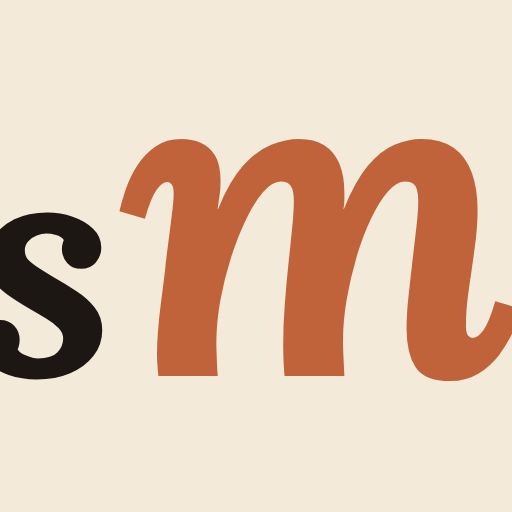
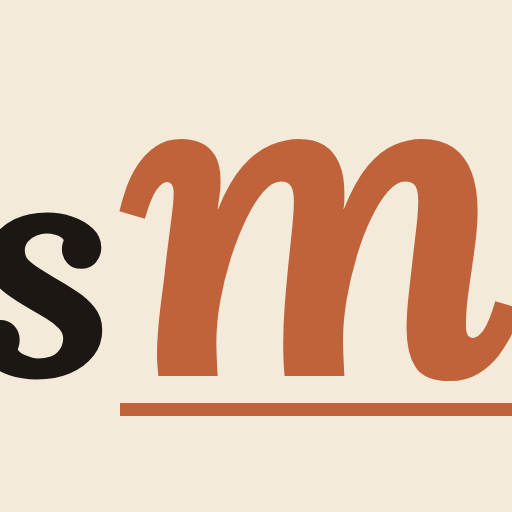
Fix homepage menu line glitch + match app menu to homepage

Changed region(s): [[0.2188, 0.7812, 1.0, 0.8125]]

diff --git a/src/App.jsx b/src/App.jsx
@@ -683,6 +683,7 @@ function AuthGate() {
   const [selectedTier, setSelectedTier] = useState(() => {
     try { return localStorage.getItem("sm_selected_tier") || null; } catch { return null; }
   });
+  const [gateMenuOpen, setGateMenuOpen] = useState(false);
   const emailInputRef = useRef(null);
 
   function chooseTier(tier) {
@@ -831,13 +832,128 @@ function AuthGate() {
   return (
     <div style={styles.page}>
       <GlobalStyles />
-      <div style={styles.gateWrap}>
-        <div style={styles.dashNavBar}>
-          <AppLogo />
-          <a href="https://sitemargin.co.za" style={styles.eyebrowLink}>← sitemargin.co.za</a>
+      <div style={styles.gateNavOuter}>
+        <div style={styles.gateNavWrap}>
+          <div style={styles.gateNav}>
+            <AppLogo />
+            <button
+              type="button"
+              style={styles.menuBtn}
+              aria-expanded={gateMenuOpen}
+              aria-controls="gateMenuPanel"
+              aria-label={gateMenuOpen ? "Close menu" : "Open menu"}
+              onClick={() => setGateMenuOpen((v) => !v)}
+            >
+              <span style={{ ...styles.menuBtnBar, ...(gateMenuOpen ? styles.menuBtnBar1Open : {}) }} />
+              <span style={{ ...styles.menuBtnBar, ...(gateMenuOpen ? styles.menuBtnBarMidOpen : {}) }} />
+              <span style={{ ...styles.menuBtnBar, ...(gateMenuOpen ? styles.menuBtnBar3Open : {}) }} />
+            </button>
+          </div>
         </div>
+      </div>
+      {gateMenuOpen && (
+        <div id="gateMenuPanel" style={{ ...styles.menuPanel, paddingTop: 140 }}>
+          <div style={styles.menuPanelInner}>
+            {[
+              { label: "Home", href: "https://sitemargin.co.za/index.html" },
+              { label: "What's inside", href: "https://sitemargin.co.za/whats-inside.html" },
+              { label: "Pricing", href: "https://sitemargin.co.za/pricing.html" },
+              { label: "About", href: "https://sitemargin.co.za/about.html" },
+              { label: "Contact", href: "https://sitemargin.co.za/contact.html" },
+            ].map((item) => (
+              <button
+                key={item.label}
+                style={styles.menuPanelLink}
+                onClick={() => { setGateMenuOpen(false); window.location.href = item.href; }}
+              >
+                {item.label}
+              </button>
+            ))}
+            {[
+              { label: "Terms", href: "https://sitemargin.co.za/terms.html" },
+              { label: "Privacy", href: "https://sitemargin.co.za/privacy.html" },
+            ].map((item, i) => (
+              <button
+                key={item.label}
+                style={{
+                  ...styles.menuPanelLink,
+                  fontSize: 15,
+                  opacity: 0.7,
+                  paddingTop: i === 0 ? 8 : 0,
+                  paddingBottom: i === 0 ? 8 : 18,
+                  borderBottom: i === 0 ? "none" : styles.menuPanelLink.borderBottom,
+                }}
+                onClick={() => { setGateMenuOpen(false); window.location.href = item.href; }}
+              >
+                {item.label}
+              </button>
+            ))}
+            <div style={{ ...styles.menuPanelActions, flexDirection: "column" }}>
+              <button
+                style={styles.menuPanelGhost}
+                onClick={() => { setGateMenuOpen(false); window.location.href = "https://app.sitemargin.co.za"; }}
+              >
+                Open the app
+              </button>
+              <button
+                style={styles.menuPanelSolid}
+                onClick={() => { setGateMenuOpen(false); window.location.href = "https://app.sitemargin.co.za"; }}
+              >
+                Sign up free
+              </button>
+            </div>
+          </div>
+        </div>
+      )}
+      <div style={styles.gateWrap}>
+        {status === "signedout" && sendState !== "sent" && (
+          <div style={styles.heroWrap}>
+            <div style={styles.eyebrow}>COST VARIANCE INTELLIGENCE · FOR SOUTH AFRICAN CONTRACTORS</div>
+            <h1 style={{ ...styles.dashTitle, margin: "10px 0 14px" }}>
+              Know you're <em style={styles.heroEm}>over budget</em> before your client does.
+            </h1>
+            <p style={styles.heroSub}>
+              Stop finding out about cost overruns at month-end. SiteMargin flags budget risk the moment it
+              happens — built for contractors who don't have time for enterprise QS software.
+            </p>
+
+            <div style={styles.mockSheet}>
+              <div style={styles.mockHead}>
+                <span>Line item</span>
+                <span>Tolerance</span>
+              </div>
+              {[
+                { name: "Concrete & foundations", nums: "R448,000 / R420,000", pct: "+6.7%", fill: 76, color: "#C1462B", bg: "rgba(193,70,43,0.1)", tag: "OVER" },
+                { name: "Plumbing rough-in", nums: "R126,000 / R118,000", pct: "+6.8%", fill: 76, color: "#B8862F", bg: "rgba(184,134,47,0.1)", tag: "WATCH" },
+                { name: "Structural steel", nums: "R298,000 / R310,000", pct: "-3.9%", fill: 68, color: "#4C7A5C", bg: "rgba(76,122,92,0.1)", tag: "ON TRACK" },
+              ].map((row) => (
+                <div key={row.name} style={styles.mockRow}>
+                  <span style={styles.mockName}>{row.name}</span>
+                  <span style={styles.mockNums}>{row.nums}</span>
+                  <span style={styles.mockGauge}>
+                    <div style={styles.gaugeTrack}>
+                      <div style={{ ...styles.gaugeFill, width: `${row.fill}%`, background: row.color }} />
+                    </div>
+                    <span style={{ ...styles.gaugeLabel, color: row.color }}>{row.pct}</span>
+                  </span>
+                  <span style={{ ...styles.pill, color: row.color, background: row.bg }}>{row.tag}</span>
+                </div>
+              ))}
+            </div>
+
+            <div style={styles.problemBlock}>
+              <div style={styles.pricingHead}>The problem</div>
+              <p style={{ ...styles.gateText, marginBottom: 0 }}>
+                Most overruns are visible weeks before anyone notices them. The number that gives it away isn't
+                the budget — it's the gap between money spent and work actually done. SiteMargin watches that gap
+                on every line item and tells you the moment it opens up.
+              </p>
+            </div>
+          </div>
+        )}
+
         <h1 style={{ ...styles.dashTitle, marginBottom: 10 }}>
-          {status === "pending" ? "Almost there" : status === "denied" ? "Something went wrong" : "Please sign in"}
+          {status === "pending" ? "Almost there" : status === "denied" ? "Something went wrong" : "Try it for free"}
         </h1>
 
         {status === "signedout" && (
@@ -2467,7 +2583,24 @@ const styles = {
   topNavEmail: { fontSize: 12, color: "#8A8072", fontFamily: "'IBM Plex Mono', monospace" },
   topNavSignOut: { background: "none", border: "1px solid #E4DCC8", borderRadius: 3, color: "#6B6258", fontSize: 12, padding: "6px 12px", cursor: "pointer" },
 
-  gateWrap: { maxWidth: 640, margin: "80px auto", padding: "0 16px" },
+  gateNavOuter: { position: "relative", zIndex: 201, background: "#F5EFE2" },
+  gateNavWrap: { maxWidth: 980, margin: "0 auto", padding: "0 20px" },
+  gateNav: { display: "flex", alignItems: "center", justifyContent: "space-between", padding: "20px 0", borderBottom: "1px solid #E4DCC8" },
+  gateWrap: { maxWidth: 640, margin: "48px auto 0", padding: "0 16px" },
+  heroWrap: { marginBottom: 36, paddingBottom: 32, borderBottom: "1px solid #E4DCC8" },
+  heroEm: { fontStyle: "italic", color: "#B85C2C" },
+  heroSub: { fontSize: 16, color: "#5C544A", lineHeight: 1.6, marginBottom: 26 },
+  mockSheet: { background: "#FFFFFF", border: "1px solid #E4DCC8", borderRadius: 8, padding: "16px 18px", boxShadow: "0 2px 10px rgba(28,23,18,0.05)", marginBottom: 28 },
+  mockHead: { display: "flex", justifyContent: "space-between", fontFamily: "'Space Grotesk', sans-serif", fontSize: 11, letterSpacing: "0.08em", color: "#8A8072", textTransform: "uppercase", fontWeight: 600, paddingBottom: 10, marginBottom: 10, borderBottom: "1px solid #EFE9D9" },
+  mockRow: { display: "flex", alignItems: "center", justifyContent: "space-between", gap: 10, padding: "10px 0", borderBottom: "1px solid #F3EEE0", flexWrap: "wrap" },
+  mockName: { fontSize: 13.5, fontWeight: 600, color: "#1C1712", flex: "1 1 150px" },
+  mockNums: { fontFamily: "'IBM Plex Mono', monospace", fontSize: 12, color: "#6B6258", flex: "0 0 auto" },
+  mockGauge: { display: "flex", alignItems: "center", gap: 8, flex: "0 0 auto" },
+  gaugeTrack: { position: "relative", width: 60, height: 6, background: "#EFE9D9", borderRadius: 4, overflow: "hidden" },
+  gaugeFill: { position: "absolute", left: 0, top: 0, bottom: 0, borderRadius: 4 },
+  gaugeLabel: { fontFamily: "'IBM Plex Mono', monospace", fontSize: 11.5, fontWeight: 600, width: 44 },
+  pill: { fontFamily: "'Space Grotesk', sans-serif", fontSize: 10.5, fontWeight: 700, letterSpacing: "0.04em", padding: "4px 9px", borderRadius: 20, flex: "0 0 auto" },
+  problemBlock: { marginTop: 4 },
   pricingHead: { fontFamily: "'Space Grotesk', sans-serif", fontSize: 12.5, letterSpacing: "0.1em", color: "#8A8072", textTransform: "uppercase", fontWeight: 600, margin: "34px 0 12px" },
   checkoutGrid: { display: "grid", gridTemplateColumns: "repeat(auto-fit, minmax(220px, 1fr))", gap: 14, marginTop: 8 },
   checkoutCard: { background: "#FFFFFF", border: "1px solid #E4DCC8", borderRadius: 6, padding: "20px 18px", boxShadow: "0 2px 8px rgba(28,23,18,0.04)" },
